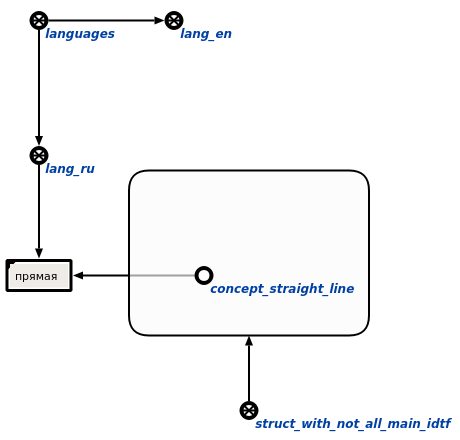
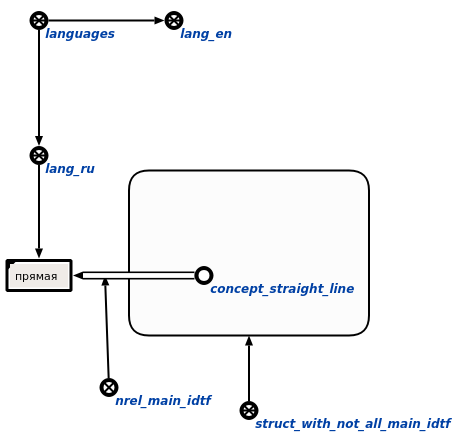
EEKB-9 rename file

Changed region(s): [[0.1826, 0.5909, 0.4565, 0.9455]]

diff --git a/kb/eekb/check_the_main_idtf_for_all_foreign_lang/agent_component/lib_component_ui_menu_file_for_checking_the_main_idtf_for_all_foreign_lang/htmls/Ui_Check_All_Ext_Lang.html b/kb/eekb/check_the_main_idtf_for_all_foreign_lang/agent_component/lib_component_ui_menu_file_for_checking_the_main_idtf_for_all_foreign_lang/htmls/Ui_Check_All_Ext_Lang.html
@@ -1,7 +1,7 @@
 <html>
 	<body> 
 		<meta http-equiv="content-type" content="text/html; charset=utf-8" /> 
-		<p><b><sc_element sys_idtf = "ui_menu_file_for_check_all_ext_lang"> Команда пользовательского интерфейса для проверки наличия всех основных идентификаторов сущности на всех внешних языках</sc_element></b> предназначена для  проверки сущностей, на предмет наличия у них <b><sc_element sys_idtf = "nrel_main_idtf">основных идентификаторов</sc_element></b> на всех <b><sc_element sys_idtf = "languages">внешних языках</sc_element></b>. Единственным аргументом запроса является знак структуры, элементы которой будут проверяться. Результатом выполнения команды является занесение всех узлов, у которых нет <b><sc_element sys_idtf = "nrel_main_idtf">основных идентификаторов</sc_element></b> на всех <b><sc_element sys_idtf = "languages">внешних языках</sc_element></b>, во <b><sc_element sys_idtf = "struct_which_elems_have_main_idtf_in_some_but_not_all_lang">структуру, у элементов которой указаны основные идентификаторы для некоторых, но не всех внешних языков</sc_element></b>:
+		<p><b><sc_element sys_idtf = "ui_menu_file_for_check_all_ext_lang"> Команда пользовательского интерфейса для проверки наличия всех основных идентификаторов сущности на всех внешних языках</sc_element></b> предназначена для  проверки сущностей, на предмет наличия у них <b><sc_element sys_idtf = "nrel_main_idtf">основных идентификаторов</sc_element></b> на всех <b><sc_element sys_idtf = "languages">внешних языках</sc_element></b>. Единственным аргументом запроса является знак структуры, элементы которой будут проверяться. Результатом выполнения команды является занесение всех узлов, у которых нет <b><sc_element sys_idtf = "nrel_main_idtf">основных идентификаторов</sc_element></b> на всех <b><sc_element sys_idtf = "languages">внешних языках</sc_element></b>, в <b><sc_element sys_idtf = "struct_which_elems_have_main_idtf_in_some_but_not_all_lang">структуру, у элементов которой указаны основные идентификаторы для некоторых, но не всех внешних языков</sc_element></b>:
 		</p>
 		<img src="check_all_langs.png" alt="Команда проверки наличия всех основных идентификаторов сущности на всех внешних языках"/>
 	</body>

diff --git a/kb/eekb/check_the_main_idtf_for_all_foreign_lang/agent_component/lib_component_agent_of_checking_the_main_idtf_for_all_foreign_lang/htmls/Agent_Check_All_Ext_Lang.html b/kb/eekb/check_the_main_idtf_for_all_foreign_lang/agent_component/lib_component_agent_of_checking_the_main_idtf_for_all_foreign_lang/htmls/Agent_Check_All_Ext_Lang.html
@@ -1,6 +1,6 @@
 <html>
 	<body>
 		<meta http-equiv="content-type" content="text/html; charset=utf-8" />
-		<p> Задачей <b><sc_element sys_idtf = "agent_of_check_all_ext_lang"> агента проверки наличия основных идентификаторов сущности для всех внешних языков</sc_element></b> является поиск элементов из предложенного контура, у которых нету <b><sc_element sys_idtf = "nrel_main_idtf">основных идентификаторов</sc_element></b> хотя бы на одном из <b><sc_element sys_idtf = "languages">внешних языков</sc_element></b> системы. Данный агент инициируется при условии появления в памяти вопросной конструкции, соответствующей <b><sc_element sys_idtf = "action_check_the_main_idtf_for_all_foreign_lang"> запросу проверки основных идентификаторов сущности для всех внешних языков</sc_element></b>. Единственным аргументом запроса является знак структуры, элементы которой проверяются. 
+		<p> Задачей <b><sc_element sys_idtf = "agent_of_checking_the_main_idtf_for_all_foreign_lang"> агента проверки наличия основных идентификаторов сущности для всех внешних языков</sc_element></b> является поиск элементов из предложенного контура, у которых нет <b><sc_element sys_idtf = "nrel_main_idtf">основных идентификаторов</sc_element></b> хотя бы на одном из <b><sc_element sys_idtf = "languages">внешних языков</sc_element></b> системы. Данный агент инициируется при условии появления в памяти вопросной конструкции, соответствующей <b><sc_element sys_idtf = "action_check_the_main_idtf_for_all_foreign_lang"> запросу проверки основных идентификаторов сущности для всех внешних языков</sc_element></b>. Единственным аргументом запроса является знак структуры, элементы которой проверяются. 
 	</body>
 </html>
